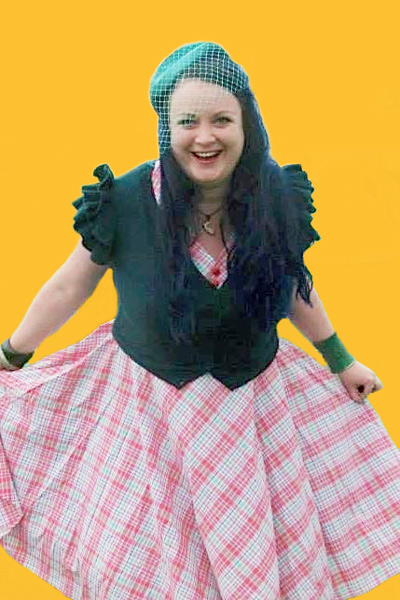
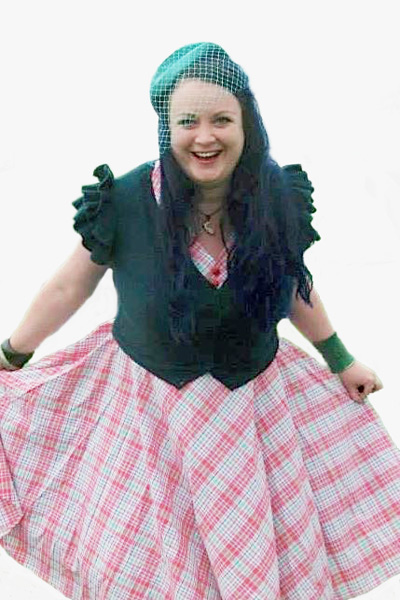
updated review images, tweak paper background

diff --git a/public/stylesheets/style.css b/public/stylesheets/style.css
@@ -17,12 +17,20 @@
 .navbar-brand, .navbar-nav > li >a {
   line-height: 40px;
   padding: 10px 15px;
-  font-family: 'Macondo Swash Caps';
+  font-family: 'flat-earth-scribe';
   font-size: 1.8em;
 }
 .navbar-toggle {
     margin: 20px;
     padding: 20px;
+}
+
+.navbar-default .navbar-toggle.collapsed:hover {
+  background-color: rgba(255, 220, 127, 255);
+}
+
+.navbar-default .navbar-toggle:hover, .navbar-default .navbar-toggle:focus {
+  background-color: #000000;
 }
 
 /* link */
@@ -99,14 +107,40 @@ p {
   max-width: 100%;
   max-height: 400px;
   margin: auto;
-  -webkit-clip-path: ellipse(48% 47% at 50% 50%);
+  -webkit-clip-path: ellipse(43% 47% at 50% 50%);
 }
   
 .clip-border {
-  -webkit-clip-path: ellipse(49% 48% at 50% 50%);
-  background: #a30000;
-  max-height: 100%;
-  max-width: 100%;
+  -webkit-clip-path: ellipse(44% 48% at 50% 50%);
+  background: #000000;
+  max-height: 400px;
+  max-width: 268px;
+  margin: auto;
+}
+
+.wrapper:hover .clip-border {
+  background: white;
+}
+
+.text-box {
+  background: rgba(0,0,0, 0.7);
+  display: none;
+  z-index: 999;
+  position: absolute;
+  border: 2px black solid;
+  border-radius: 5px;
+}
+
+.text-box p {
+  color: white;
+  padding: 2px;
+  font-size: 1.1em;
+  line-height: 110%;
+}
+
+#spacing {
+  padding-bottom: 100px;
+  margin-bottom: 100px;
 }
   
 h2 {
@@ -114,10 +148,12 @@ h2 {
   font-size: 4.8em;
   color: rgba(55, 54, 50, 255);
   text-align: center;
+  padding-left: 10px;
+  padding-right: 10px;
 }
 
 h3 {
-  font-family: 'Macondo Swash Caps';
+  font-family: 'flat-earth-scribe';
   font-size: 2.2em;
   text-align: center;
 }
@@ -135,7 +171,7 @@ iframe {
   padding-bottom: 15px;
   max-width: 100%;
   max-height: auto;
-  }
+}
 
 @media (min-width: 768px) {
     .navbar .navbar-nav {
@@ -183,7 +219,7 @@ iframe {
     }
   .navbar-brand, .navbar-nav > li >a {
     line-height: 30px;
-    padding: 8px 10px;
+    padding: 6px 10px;
     font-size: 28px;
   }
   .navbar-toggle {
@@ -195,6 +231,9 @@ iframe {
   }
   h2 {
     font-size: 40px;
+  }
+  .paper-bottom {
+    margin-top: -145px;
   }
 }
 

diff --git a/public/javascripts/script.js b/public/javascripts/script.js
@@ -1,15 +1,14 @@
 $(document).ready(function(){
-  $('img.profile').on({
-    click: function(event) {
-        $('#popup').popup({
-            tooltipanchor: event.target,
-            autoopen: true,
-            color: '#fff',
-            type: 'tooltip',
-            outline: 'true',
-            vertical: 'bottom',
-            offsettop: 10
-        });
-    },
-  })
+  $('.profile').click(function() {
+    $(this).parent().siblings('.text-box').show('slow');
+  });
+  $(document).mouseup(function (e) {
+    var container = $('.text-box');
+
+    if (!container.is(e.target)
+        && container.has(e.target).length === 0)
+    {
+        container.hide();
+    }
+});
 });
